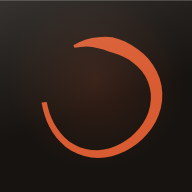
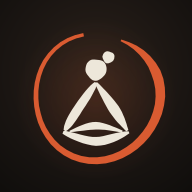
feat: new app mark — a woman seated in lotus inside an ensō
Icons are generated from the EnsoKit brush engine rather than drawn by
hand, so the mark is made of the same deterministic sumi-e strokes as
every glyph in the app: an open ensō ring in the accent, the seated
figure in washi ivory on the warm dark ground.

The same geometry is registered as the 'lotus-woman' glyph and used for
the in-app mark in Settings, so the home screen and the app agree.

512 keeps purpose "any maskable", so the mark is scaled to sit inside
the 80% safe circle; 192 is scaled a little larger for the plain icon
and the apple-touch-icon.

Changed region(s): [[0.1562, 0.1562, 0.875, 0.875], [0.0, 0.0, 1.0, 0.1562]]

diff --git a/index.html b/index.html
@@ -804,6 +804,18 @@ button.pill-x {
   add('lotus', { s: [{ p: [[50, 32], [58, 46], [50, 64], [42, 46], [50, 34]], w: 6 }, { p: [[24, 60], [34, 42], [47, 58]], w: 6 }, { p: [[76, 60], [66, 42], [53, 58]], w: 6 }, { p: [[26, 68], [50, 78], [74, 68]], w: 7 }] });
   add('meditate', { s: [{ p: [[30, 72], [36, 54], [50, 48], [64, 54], [70, 72]], w: 9 }, { p: [[26, 76], [74, 76]], w: 6 }], d: [[50, 32, 7.5]] });
   add('spiral', { s: [{ p: [[52, 48], [58, 54], [50, 60], [42, 52], [48, 40], [62, 40], [68, 58], [50, 72], [30, 60], [28, 38]], w: 6 }] });
+  /* the app mark: a woman seated in lotus, held inside an ensō. Same geometry
+     as icon-192/512, so the home-screen icon and the in-app mark are one thing. */
+  add('lotus-woman', {
+    enso: { R: 38, w: 7, gap: 0.62, rot: -1.15, wob: 1.9 },
+    s: [
+      { p: [[50, 42], [39, 58], [31, 71]], w: 6, taper: 'both' },
+      { p: [[50, 42], [61, 58], [69, 71]], w: 6, taper: 'both' },
+      { p: [[30, 72], [50, 77.5], [70, 72]], w: 5.6, taper: 'both' },
+      { p: [[34, 71.5], [50, 68], [66, 71.5]], w: 4.2, taper: 'both' }
+    ],
+    d: [[50, 34, 6.4], [57.5, 26.5, 3.6]]
+  });
 
   /* faces — all 16 */
   add('face-joy', { enso: FACE_RING, s: [smile()], d: eyes() });
@@ -3828,7 +3840,7 @@ window.ATTUNE_MOON_CONTENT = {
 
     /* about + disclaimer */
     h += '<div class="glass-card"><div class="glass-row" style="border:none;padding:0 0 6px">' +
-      '<div class="row-glyph icon-accent">' + g('enso', 30) + '</div><div><strong>Attune</strong>' +
+      '<div class="row-glyph icon-accent">' + g('lotus-woman', 34) + '</div><div><strong>Attune</strong>' +
       '<div class="t-small">A partner-side cycle companion — built for you, about her.</div></div></div>' +
       '<div class="t-small" style="color:var(--text-dim)">' + esc(C.general.disclaimer) + '</div></div>';
     return h;

diff --git a/sw.js b/sw.js
@@ -1,6 +1,6 @@
 /* Attune service worker — cache-first, fully offline. */
 'use strict';
-var CACHE = 'attune-v3';
+var CACHE = 'attune-v4';
 var ASSETS = ['./', './index.html', './manifest.json', './icon-192.png', './icon-512.png'];
 
 self.addEventListener('install', function (e) {
